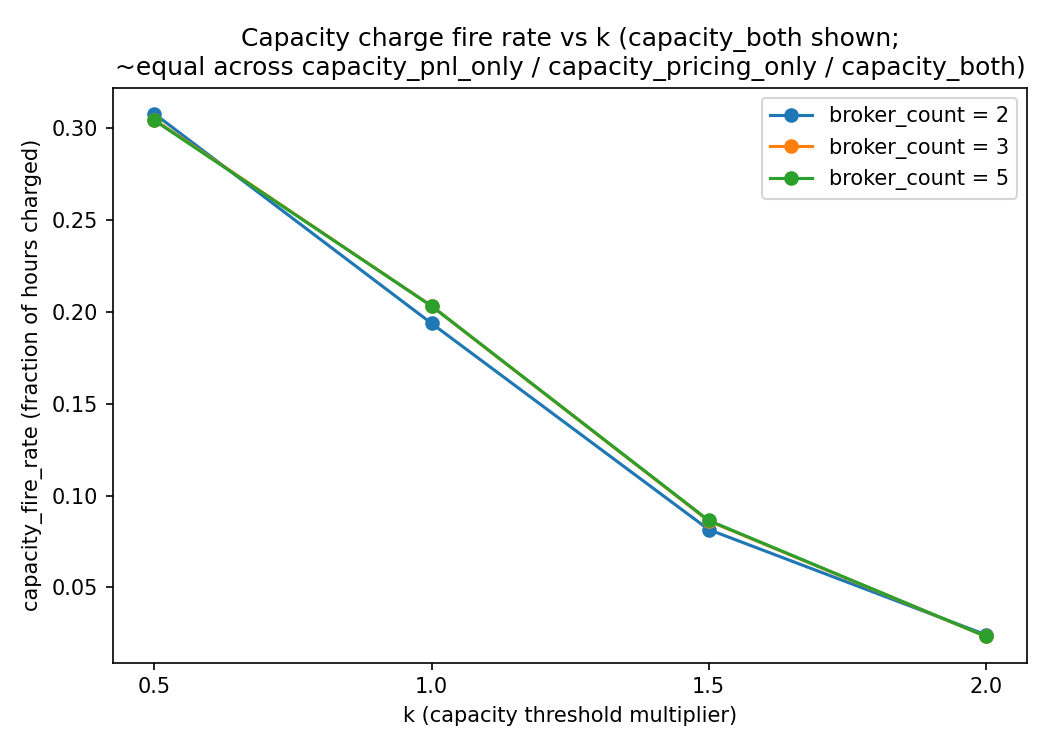
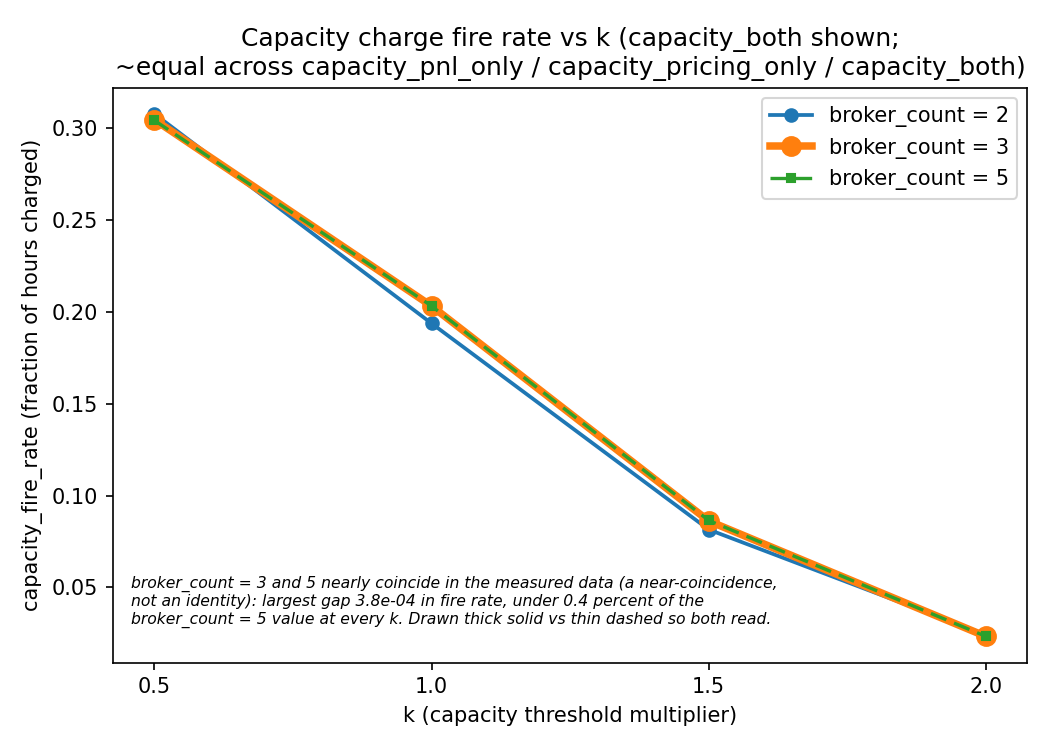
plots: four figures were unreadable or misleading as rendered
Follow-up to the suptitle fix in the previous commit. An adversarial review
of that change opened every PNG under results/plots/ and found three more
defects of the same class, plus a readability regression the fix itself had
introduced. All four are figures an examiner could see, and one of them was
actively misrepresenting a result.

fig_broker_heterogeneity.png: the previous commit dropped the suptitle to
fontsize 9 to stop it clipping. Now that the text is on two lines, fontsize
10 fits with clear margin on both, so it goes back to 10. This figure is the
projector-failure fallback named in the slides, so text size at distance is
not cosmetic.

fig_structural_sensitivity.png: the figure legend was placed with
loc="outside upper right", which under layout="constrained" is pinned to the
same top band as the suptitle, so the red "Peak-to-average ratio" entry ran
straight through the third suptitle line. Every "outside upper" and "outside
right" variant collides the same way; only "outside lower center" avoids it,
and that parks the key at the bottom of a 16x10 figure far from the lines it
labels. The legend is now anchored to the first top-row panel's axes
transform, which resolves after the layout engine places the axes and so can
never reach the suptitle band. No suptitle text was shortened.

fig_metric3_vs_k.png: the legend advertised four ablations and the plot drew
two. disabled sat exactly under pnl_only and pricing_only exactly under
[…]

diff --git a/scripts/analyze_sweep.py b/scripts/analyze_sweep.py
@@ -217,6 +217,25 @@ CI_DISAGREEMENT_WIDTH_RATIO = 2.0  # flag a disagreement if one CI is >= 2x the 
 _DEFAULT_COLORS = plt.rcParams["axes.prop_cycle"].by_key()["color"]
 ABLATION_COLOR = {ablation: _DEFAULT_COLORS[i % len(_DEFAULT_COLORS)] for i, ablation in enumerate(ABLATION_ORDER)}
 
+# Draw styles for the coincident ablation pairs on the physical metrics. On those
+# metrics capacity_pnl_only reproduces capacity_disabled exactly, and capacity_both
+# reproduces capacity_pricing_only exactly, because the P&L channel debits broker
+# ledgers and writes nothing into any price (clean channel isolation, see
+# docs/thesis/06_results.md Section 6.1 and the module docstring above). Drawn with
+# one uniform style the overplotted member of each pair is completely invisible, so
+# the legend advertises four series while the panel shows two and the figure reads as
+# broken rather than as the result it is. Each underlying series is therefore drawn
+# thick and solid with a large marker, and the series that lands exactly on top of it
+# thin and dashed with a small marker, so both members stay readable and the
+# concentric markers show the coincidence. Presentation only: no plotted value is
+# offset, rescaled, or otherwise altered.
+ABLATION_LINE_STYLE = {
+    "capacity_disabled": {"linestyle": "-", "linewidth": 3.6, "markersize": 8.5, "zorder": 2},
+    "capacity_pnl_only": {"linestyle": (0, (5, 2.5)), "linewidth": 1.5, "markersize": 3.4, "zorder": 4},
+    "capacity_pricing_only": {"linestyle": "-", "linewidth": 3.6, "markersize": 8.5, "zorder": 3},
+    "capacity_both": {"linestyle": (0, (5, 2.5)), "linewidth": 1.5, "markersize": 3.4, "zorder": 5},
+}
+
 
 # ---------------------------------------------------------------------------
 # Small stats helpers
@@ -717,7 +736,7 @@ def plot_metric3_vs_k(summary_df: pd.DataFrame) -> None:
                 y = line["mean"].to_numpy(dtype=float)
                 halfwidth = line["ci95_halfwidth"].to_numpy(dtype=float)
                 color = ABLATION_COLOR[ablation]
-                ax.plot(x, y, marker="o", label=ABLATION_SHORT[ablation], color=color)
+                ax.plot(x, y, marker="o", label=ABLATION_SHORT[ablation], color=color, **ABLATION_LINE_STYLE[ablation])
                 ax.fill_between(x, y - halfwidth, y + halfwidth, color=color, alpha=0.15)
             ax.set_title(f"broker_count = {bc}")
             if row_idx == len(metric_rows) - 1:
@@ -736,10 +755,23 @@ def plot_metric3_vs_k(summary_df: pd.DataFrame) -> None:
         style="italic",
     )
     handles, labels = axes[0, 0].get_legend_handles_labels()
-    fig.legend(handles, labels, loc="outside lower center", ncol=len(ABLATION_ORDER), frameon=False)
+    fig.legend(
+        handles,
+        labels,
+        loc="outside lower center",
+        ncol=len(ABLATION_ORDER),
+        frameon=False,
+        title=(
+            "Each coincident pair is drawn as a thick solid line with its partner dashed on top, "
+            "so both members of the pair stay visible."
+        ),
+        title_fontsize=9,
+    )
     fig.suptitle(
         "Metric 3 (feeder stability) vs k, by broker_count, with 95 percent CI bands\n"
-        "Lower values = more stable feeder load. Shaded band = 95 percent CI across 30 seeds.",
+        "Lower values = more stable feeder load. Shaded band = 95 percent CI across 30 seeds.\n"
+        "Only two distinct curves appear per panel, by construction: pnl_only lies exactly on disabled, and both lies\n"
+        "exactly on pricing_only, because the P&L channel writes nothing into prices (clean channel isolation, Section 6.1).",
         fontsize=11,
     )
     fig.savefig(PLOTS_DIR / "fig_metric3_vs_k.png", dpi=150)
@@ -783,12 +815,47 @@ def plot_fire_rate(df: pd.DataFrame) -> None:
     # not touch the physical dynamics that the threshold/fire-rate calc depends on), and
     # differs only very slightly from capacity_pnl_only, which runs the same threshold
     # mechanic WITHOUT the deferral response feeding back into feeder net import.
+    #
+    # Presentation note: the broker_count = 3 and broker_count = 5 curves nearly
+    # coincide in the measured data, closely enough that with one uniform style the
+    # bc = 3 curve is drawn over completely and disappears. This is a NEAR-coincidence
+    # in the measured means, not an identity the model guarantees (unlike the
+    # capacity_pnl_only / capacity_disabled pair in fig_metric3_vs_k.png), so the two
+    # are separated by linestyle, marker shape and linewidth only, and the measured
+    # gap is stated in the panel and computed below from the same means that are
+    # plotted. No plotted value is offset or altered.
+    style_by_bc = {
+        2: {"linestyle": "-", "linewidth": 1.8, "marker": "o", "markersize": 6.0, "zorder": 2},
+        3: {"linestyle": "-", "linewidth": 3.6, "marker": "o", "markersize": 9.0, "zorder": 3},
+        5: {"linestyle": (0, (5, 2.5)), "linewidth": 1.6, "marker": "s", "markersize": 3.8, "zorder": 4},
+    }
     fig, ax = plt.subplots(figsize=(7, 5))
     sub_both = df[df["ablation"] == "capacity_both"]
+    mean_by_bc = {}
     for bc in BROKER_COUNTS:
         line = sub_both[sub_both["broker_count"] == bc].groupby("k")["capacity_fire_rate"].mean().reset_index()
         line = line.sort_values("k")
-        ax.plot(line["k"], line["capacity_fire_rate"], marker="o", label=f"broker_count = {bc}")
+        mean_by_bc[bc] = line["capacity_fire_rate"].to_numpy(dtype=float)
+        ax.plot(line["k"], line["capacity_fire_rate"], label=f"broker_count = {bc}", **style_by_bc[bc])
+
+    # Closeness of the two near-coincident curves, measured from the plotted means.
+    # The relative bound is rounded UP to one decimal so the stated "under" figure is
+    # never smaller than the measured maximum.
+    gap = np.abs(mean_by_bc[3] - mean_by_bc[5])
+    rel_gap_pct = 100.0 * np.max(gap / mean_by_bc[5])
+    rel_gap_bound = np.ceil(rel_gap_pct * 10.0) / 10.0
+    ax.text(
+        0.02,
+        0.06,
+        "broker_count = 3 and 5 nearly coincide in the measured data (a near-coincidence,\n"
+        f"not an identity): largest gap {np.max(gap):.1e} in fire rate, under {rel_gap_bound:.1f} percent of the\n"
+        "broker_count = 5 value at every k. Drawn thick solid vs thin dashed so both read.",
+        transform=ax.transAxes,
+        ha="left",
+        va="bottom",
+        fontsize=7.5,
+        style="italic",
+    )
     ax.set_xlabel("k (capacity threshold multiplier)")
     ax.set_ylabel("capacity_fire_rate (fraction of hours charged)")
     ax.set_xticks(list(K_VALUES))
@@ -845,7 +912,7 @@ def plot_broker_heterogeneity(df: pd.DataFrame) -> None:
     fig.suptitle(
         "Broker heterogeneity under capacity_both: the surcharge is a EUR/kWh quote adder,\n"
         "equal to capacity_passthrough (a signal-strength coefficient, not a tariff rate) x contribution share",
-        fontsize=9,
+        fontsize=10,
     )
     fig.savefig(PLOTS_DIR / "fig_broker_heterogeneity.png", dpi=150)
     plt.close(fig)

diff --git a/scripts/analyze_structural_sweep.py b/scripts/analyze_structural_sweep.py
@@ -730,8 +730,21 @@ def plot_structural_sensitivity(cell_df: pd.DataFrame, marginal_df: pd.DataFrame
         ax.set_title(f"Marginal effect vs {coefficient}", fontsize=10)
         ax.set_xticks(list(COEFFICIENT_LEVELS[coefficient]))
 
-    handles, labels = fig.axes[0].get_legend_handles_labels()
-    fig.legend(handles, labels, loc="outside upper right", frameon=False, fontsize=9)
+    # Legend placement: anchored inside the first top-row panel, NOT at the
+    # figure's outside upper right. Under layout="constrained" both the
+    # suptitle and an "outside upper right" figure legend are pinned to the
+    # very top of the figure, so the legend sat on top of the end of the
+    # suptitle's third line. Anchoring to this panel's axes (resolved at draw
+    # time, after the layout engine has placed the axes) puts the legend in a
+    # region that is empty in this data and cannot reach the suptitle band.
+    # It stays a figure-level legend: the two colours are the same in all
+    # three top-row panels.
+    ax_first = fig.axes[0]
+    handles, labels = ax_first.get_legend_handles_labels()
+    fig.legend(
+        handles, labels, loc="upper left", bbox_to_anchor=(0.02, 0.98),
+        bbox_transform=ax_first.transAxes, frameon=False, fontsize=9,
+    )
 
     for panel_idx, metric in enumerate(METRIC3_KEYS):
         ax = fig.add_subplot(gs[1, panel_idx])

diff --git a/scripts/plot_broker_prices.py b/scripts/plot_broker_prices.py
@@ -243,11 +243,20 @@ def _plot_innovation_hist(ax, innovations: np.ndarray, stats_block: dict) -> Non
     ax.set_xlabel("Hourly price innovation (EUR/kWh)", color=INK)
     ax.set_ylabel("Count (log scale)", color=INK)
     ax.set_title("Innovations have heavier tails than a Gaussian", color=INK, fontsize=11)
+    # Headroom for the two labels that live in the top of this panel (the legend at
+    # the top right and the df / kurtosis annotation at the top left). Without it the
+    # tallest bars and the Gaussian reference curve run straight through them: the
+    # "sample excess kurtosis" line was struck through by the Gaussian curve and sat
+    # on top of the bars, which made it unreadable. The axis is logarithmic, so the
+    # clear band is added in decades above the tallest bar. This changes only how much
+    # empty space sits above the data; no plotted value is altered.
+    bottom, top = ax.get_ylim()
+    ax.set_ylim(bottom, top * 10**2.8)
     ax.legend(loc="upper right", frameon=False, fontsize=8)
     excess_kurtosis = float(stats.kurtosis(innovations, fisher=True))
     ax.text(
         0.02,
-        0.96,
+        0.98,
         f"df = {stats_block['df']}\nsample excess kurtosis = {excess_kurtosis:.1f}",
         transform=ax.transAxes,
         va="top",
